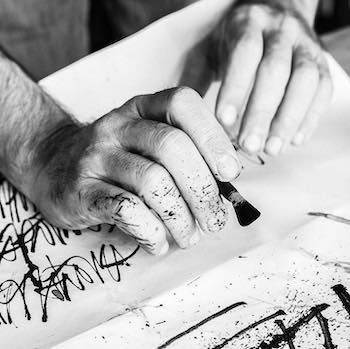
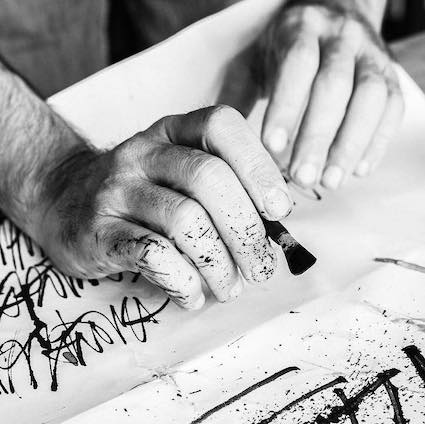
col

diff --git a/css/base.css b/css/base.css
@@ -54,12 +54,12 @@ a:focus, a:active, a:hover, textarea:focus, textarea:active, textarea:hover, inp
   02. Typography
 ---*/
 body {
-  font-family: "Roboto Mono", "Helvetica Neue", sans-serif;
+  font-family:  "Helvetica Neue", "Roboto Mono", sans-serif;
   font-weight: 300;
 }
 
 h1, h2, h3, h4, h5, h6 {
-  font-family: "Work Sans", "Helvetica Neue", sans-serif;
+  font-family:  "Helvetica Neue", "Work Sans", sans-serif;
 }
 
 @media screen and (max-width: 768px) {
@@ -85,7 +85,7 @@ h1 {
 }
 
 h2 {
-  font-family: "Roboto Mono", "Helvetica Neue", sans-serif;
+  font-family: "Helvetica Neue", "Roboto Mono", sans-serif;
   font-size: 2.2em;
   margin: 10px 0 25px;
 }
@@ -98,7 +98,7 @@ h3 {
 h4 {
   font-size: 1.3em;
   margin-bottom: 10px;
-  font-family: "Roboto Mono", "Helvetica Neue", sans-serif;
+  font-family: "Helvetica Neue", "Roboto Mono", sans-serif;
 }
 
 h5 {
@@ -436,7 +436,7 @@ h1 span.right, h2 span.right, h3 span.right, h4 span.right, h5 span.right, h6 sp
 
 .nav-container li a {
   font-size: 1.9em;
-  font-family: "Work Sans", "Helvetica Neue", sans-serif;
+  font-family: "Helvetica Neue", "Work Sans", sans-serif;
   font-weight: 500;
   color: #2E2E2E;
   display: inline-block;
@@ -481,7 +481,7 @@ h1 span.right, h2 span.right, h3 span.right, h4 span.right, h5 span.right, h6 sp
 
 .nav-container li ul.dropdown li a {
   padding: 5px;
-  font-family: "Roboto Mono", "Helvetica Neue", sans-serif;
+  font-family: "Helvetica Neue", "Roboto Mono", sans-serif;
   font-size: 13px;
   font-weight: 300;
 }
@@ -1204,7 +1204,7 @@ img.standalone {
 }
 
 .btn {
-  font-family: "Work Sans", "Helvetica Neue", sans-serif;
+  font-family: "Helvetica Neue", "Work Sans", sans-serif;
   border-radius: 0;
   border: 0;
   padding: 12px 25px;
@@ -1411,7 +1411,7 @@ ul.breadcrumbs li:last-child:after {
   font-size: 1.2em;
   line-height: 2;
   font-weight: bold;
-  font-family: "Work Sans", "Helvetica Neue", sans-serif;
+  font-family: "Helvetica Neue", "Work Sans", sans-serif;
 }
 
 @media screen and (max-width: 768px) {
@@ -1497,7 +1497,7 @@ blockquote {
   margin-bottom: 10px;
   border: 3px solid rgba(46, 46, 46, 0.1);
   position: relative;
-  font-family: "Work Sans", "Helvetica Neue", sans-serif;
+  font-family: "Helvetica Neue", "Work Sans", sans-serif;
   font-size: 1.5em;
 }
 
@@ -1525,7 +1525,7 @@ blockquote:after {
 .label {
   background: #2E2E2E;
   font-size: 1em;
-  font-family: "Work Sans", "Helvetica Neue", sans-serif;
+  font-family: "Helvetica Neue","Work Sans", sans-serif;
   font-weight: 500;
   padding: 4px 8px 5px;
   color: #fff;
@@ -1565,7 +1565,7 @@ blockquote:after {
 }
 
 .tabs .tab-content {
-  font-family: "Roboto Mono", "Helvetica Neue", sans-serif;
+  font-family: "Helvetica Neue", "Roboto Mono", sans-serif;
   border: 1px solid #dedede;
   border-top: 0;
   padding: 30px;

diff --git a/pages/talleres.html b/pages/talleres.html
@@ -46,12 +46,10 @@
           <div class="menu"></div>
         </div>
       </header>
-       <section class="container content" style="padding-top: 110px;padding-bottom: 10px;">
+       <section class="container" style="padding-top: 110px;padding-bottom: 10px;">
         <div class="row">
-              <div class="col-md-12 ">
-
-                    <div class="row-fluid">
-                      <div class="col-sm-4">
+              <div class="col-md-12">
+                      <div class="col-md-5">
                     <div class="my-x-large">
                         <div class="slider">
                             <img src="../images/29739281_209504733148246_8426378522221608960_n.jpg" alt="Slide">
@@ -63,7 +61,7 @@
                     </div><h4><p>A parte de encargos sobre proyectos también estoy implicado en la docencia.</p></h4>
                   <h4><p>Imparto talleres y cursos desde el 2017 en universidades, museos, papelerías y dando clases particulares de caligrafía y en este tiempo he ido mejorando el temario y el sistema de enseñanza.</p></h4>
                     <h4><p>Si te interesa organizar un taller no dudes en contactar conmigo.<p><h4>
-            </div></div>
+            </div>
 
       </section>
        <section class="container content top-line" style="padding-top: 20px;padding-bottom: 30px;width:100%;text-align:left;background-color:#white;">

diff --git a/src/slighter.scss b/src/slighter.scss
@@ -1,7 +1,7 @@
 .slider {
     position: relative;
     overflow: hidden;
-    height: 350px;
+    height: 425px;
 
     > * {
         opacity: 0;
@@ -10,7 +10,7 @@
         top: 0;
         left: 0;
         width: 100%;
-        height: 350px;
+        height: 425px;
         object-fit: cover;
    }
 }

diff --git a/build/slighter.css b/build/slighter.css
@@ -1,7 +1,7 @@
 .slider {
   position: relative;
   overflow: hidden;
-  height: 350px;
+  height: 425px;
 }
 .slider > * {
   opacity: 0;
@@ -10,7 +10,7 @@
   top: 0;
   left: 0;
   width: 100%;
-  height: 350px;
+  height: 425px;
   object-fit: cover;
 }
 
